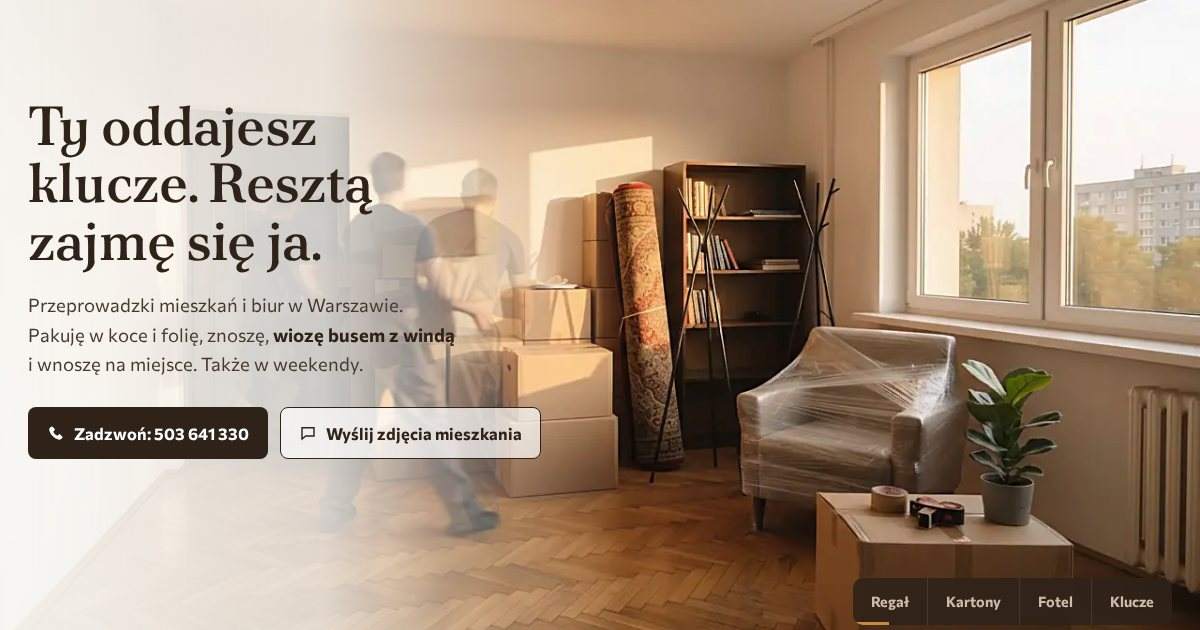
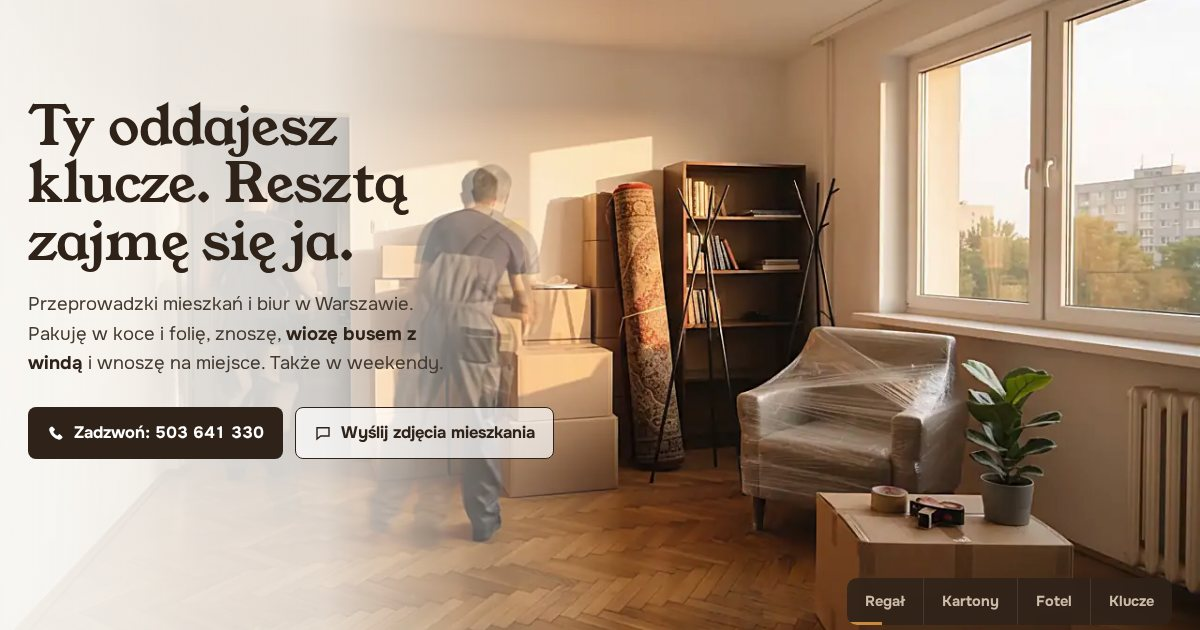
MJ Transport: W1 nowy krój (Young Serif + Onest); łagodne pojawianie treści przy przewijaniu we wszystkich wariantach
Claude-Session: https://claude.ai/code/session_01USdgDgttiw38zyboxaxrj8

diff --git a/p/mj-transport-w3-trasa/index.html b/p/mj-transport-w3-trasa/index.html
@@ -158,10 +158,10 @@ footer .wrap{display:flex;flex-wrap:wrap;gap:16px 40px;justify-content:space-bet
 footer b{color:var(--ink);font-weight:700}
 .mbar{display:none}
 
-.js .reveal{opacity:0;transform:translateY(26px);transition:opacity .85s cubic-bezier(.22,.61,.36,1),transform .85s cubic-bezier(.22,.61,.36,1)}
-.js .reveal.in{opacity:1;transform:none}
-.js .stagger>*{opacity:0;transform:translateY(24px);transition:opacity .8s cubic-bezier(.22,.61,.36,1),transform .8s cubic-bezier(.22,.61,.36,1);transition-delay:calc(var(--i,0)*85ms)}
-.js .stagger.in>*{opacity:1;transform:none}
+.js .reveal{opacity:0;transform:translateY(22px);filter:blur(4px);transition:opacity 1.3s cubic-bezier(.16,.7,.24,1),transform 1.4s cubic-bezier(.16,.7,.24,1),filter 1.1s ease}
+.js .reveal.in{opacity:1;transform:none;filter:none}
+.js .stagger>*{opacity:0;transform:translateY(20px);filter:blur(3px);transition:opacity 1.2s cubic-bezier(.16,.7,.24,1),transform 1.3s cubic-bezier(.16,.7,.24,1),filter 1s ease;transition-delay:calc(var(--i,0)*130ms)}
+.js .stagger.in>*{opacity:1;transform:none;filter:none}
 
 @media(max-width:1060px){
   .nav{display:none}.mnav{display:block}
@@ -201,8 +201,8 @@ footer b{color:var(--ink);font-weight:700}
   .mbar a:first-child{background:var(--red);color:#fff}
   .mbar a:last-child{border:2px solid var(--ink);color:var(--ink)}
   .mbar svg{width:18px;height:18px}
-  .js .reveal{transform:translateY(16px);transition-duration:.7s}
-  .js .stagger>*{transform:translateY(16px);transition-duration:.7s;transition-delay:calc(var(--i,0)*55ms)}
+  .js .reveal{transform:translateY(14px);filter:none}
+  .js .stagger>*{transform:translateY(14px);filter:none;transition-delay:calc(var(--i,0)*90ms)}
 }
 @media(max-width:420px){.hdr .call{display:none}.mk{font-size:12.5px}}
 @media(max-width:380px){.h1{font-size:27px}}
@@ -210,7 +210,7 @@ footer b{color:var(--ink);font-weight:700}
   html{scroll-behavior:auto}
   .js .hero{height:auto}
   .js .pin{position:relative;top:0;height:auto;min-height:calc(100vh - var(--hdr-h))}
-  .js .reveal,.js .stagger>*{opacity:1!important;transform:none!important;transition:none!important}
+  .js .reveal,.js .stagger>*{opacity:1!important;transform:none!important;filter:none!important;transition:none!important}
 }
 </style>
 </head>
@@ -376,11 +376,11 @@ const m=()=>root.style.setProperty('--hdr-h',top.offsetHeight+'px'); m(); addEve
 document.querySelectorAll('.mnav nav a').forEach(a=>a.addEventListener('click',()=>a.closest('details').removeAttribute('open')));
 document.querySelectorAll('.stagger').forEach(s=>[...s.children].forEach((c,i)=>c.style.setProperty('--i',i)));
 const els=[...document.querySelectorAll('.reveal,.stagger')]; let fired=false;
-const io=new IntersectionObserver(es=>es.forEach(e=>{if(e.isIntersecting){fired=true;e.target.classList.add('in');io.unobserve(e.target)}}),{rootMargin:'0px 0px -8% 0px'});
+const io=new IntersectionObserver(es=>es.forEach(e=>{if(e.isIntersecting){fired=true;e.target.classList.add('in');io.unobserve(e.target)}}),{rootMargin:'0px 0px -12% 0px',threshold:.08});
 els.forEach(e=>io.observe(e));
 const sweep=()=>els.forEach(e=>{if(!e.classList.contains('in')&&e.getBoundingClientRect().top<innerHeight*.95){e.classList.add('in');io.unobserve(e)}});
 let st; addEventListener('scroll',()=>{clearTimeout(st);st=setTimeout(sweep,140)},{passive:true});
-setTimeout(()=>{if(!fired)els.forEach(e=>e.classList.add('in'))},4000);
+
 
 /* hero: trasa */
 const route=document.getElementById('route'), van=document.getElementById('van'), L=route.getTotalLength();

diff --git a/p/mj-transport-w2-winda/index.html b/p/mj-transport-w2-winda/index.html
@@ -168,10 +168,10 @@ footer .brand span{color:var(--txt)}
 .mbar{display:none}
 
 /* odsłanianie */
-.js .reveal{opacity:0;transform:translateY(26px);transition:opacity .85s cubic-bezier(.22,.61,.36,1),transform .85s cubic-bezier(.22,.61,.36,1)}
-.js .reveal.in{opacity:1;transform:none}
-.js .stagger>*{opacity:0;transform:translateY(24px);transition:opacity .8s cubic-bezier(.22,.61,.36,1),transform .8s cubic-bezier(.22,.61,.36,1);transition-delay:calc(var(--i,0)*85ms)}
-.js .stagger.in>*{opacity:1;transform:none}
+.js .reveal{opacity:0;transform:translateY(22px);filter:blur(4px);transition:opacity 1.3s cubic-bezier(.16,.7,.24,1),transform 1.4s cubic-bezier(.16,.7,.24,1),filter 1.1s ease}
+.js .reveal.in{opacity:1;transform:none;filter:none}
+.js .stagger>*{opacity:0;transform:translateY(20px);filter:blur(3px);transition:opacity 1.2s cubic-bezier(.16,.7,.24,1),transform 1.3s cubic-bezier(.16,.7,.24,1),filter 1s ease;transition-delay:calc(var(--i,0)*130ms)}
+.js .stagger.in>*{opacity:1;transform:none;filter:none}
 
 @media(max-width:1060px){
   .nav{display:none}.mnav{display:block}
@@ -219,8 +219,8 @@ footer .brand span{color:var(--txt)}
   .mbar a:first-child{background:var(--strap);color:var(--ink)}
   .mbar a:last-child{border:1.5px solid #6B737B;color:var(--txt)}
   .mbar svg{width:18px;height:18px}
-  .js .reveal{transform:translateY(16px);transition-duration:.7s}
-  .js .stagger>*{transform:translateY(16px);transition-duration:.7s;transition-delay:calc(var(--i,0)*55ms)}
+  .js .reveal{transform:translateY(14px);filter:none}
+  .js .stagger>*{transform:translateY(14px);filter:none;transition-delay:calc(var(--i,0)*90ms)}
 }
 @media(max-width:420px){
   .hdr .call{display:none}
@@ -230,7 +230,7 @@ footer .brand span{color:var(--txt)}
   html{scroll-behavior:auto}
   .js .hero{height:auto}
   .js .pin{position:relative;top:0;height:auto;min-height:calc(100vh - var(--hdr-h));padding:30px 0}
-  .js .reveal,.js .stagger>*{opacity:1!important;transform:none!important;transition:none!important}
+  .js .reveal,.js .stagger>*{opacity:1!important;transform:none!important;filter:none!important;transition:none!important}
   .scrollhint i{animation:none}
 }
 </style>
@@ -438,11 +438,11 @@ document.querySelectorAll('.mnav nav a').forEach(a=>a.addEventListener('click',(
 /* odsłanianie */
 document.querySelectorAll('.stagger').forEach(s=>[...s.children].forEach((c,i)=>c.style.setProperty('--i',i)));
 const els=[...document.querySelectorAll('.reveal,.stagger')]; let fired=false;
-const io=new IntersectionObserver(es=>es.forEach(e=>{if(e.isIntersecting){fired=true;e.target.classList.add('in');io.unobserve(e.target)}}),{rootMargin:'0px 0px -8% 0px'});
+const io=new IntersectionObserver(es=>es.forEach(e=>{if(e.isIntersecting){fired=true;e.target.classList.add('in');io.unobserve(e.target)}}),{rootMargin:'0px 0px -12% 0px',threshold:.08});
 els.forEach(e=>io.observe(e));
 const sweep=()=>els.forEach(e=>{if(!e.classList.contains('in')&&e.getBoundingClientRect().top<innerHeight*.95){e.classList.add('in');io.unobserve(e)}});
 let st; addEventListener('scroll',()=>{clearTimeout(st);st=setTimeout(sweep,140)},{passive:true});
-setTimeout(()=>{if(!fired)els.forEach(e=>e.classList.add('in'))},4000);
+
 
 /* hero: winda */
 const hero=document.getElementById('hero'), pin=hero.querySelector('.pin');

diff --git a/p/mj-transport-w1-przeprowadzka/index.html b/p/mj-transport-w1-przeprowadzka/index.html
@@ -13,19 +13,19 @@
 <script>document.documentElement.classList.add('js')</script>
 <link rel="preconnect" href="https://fonts.googleapis.com">
 <link rel="preconnect" href="https://fonts.gstatic.com" crossorigin>
-<link href="https://fonts.googleapis.com/css2?family=Commissioner:wght@400;600;700&family=Poltawski+Nowy:ital,wght@0,500;0,600;0,700;1,500&display=swap" rel="stylesheet">
+<link href="https://fonts.googleapis.com/css2?family=Young+Serif&family=Onest:wght@400;600;700&display=swap" rel="stylesheet">
 <style>
 :root{
   --wal:#2F2219; --wal2:#3E2F24; --wal3:#54402F;
   --honey:#C98A3E; --honey-d:#8F5A1E; --honey-l:#F2DDB9;
   --wall:#FBFAF7; --wall2:#F1ECE4; --ink:#1F1B17; --mute:#5E554C;
   --onw:#F6EFE6; --onwm:#CDBCA9;
-  --f-d:'Poltawski Nowy',Georgia,serif; --f-t:'Commissioner',system-ui,sans-serif;
+  --f-d:'Young Serif',Georgia,serif; --f-t:'Onest',system-ui,sans-serif;
   --hdr-h:100px;
 }
 *{box-sizing:border-box;margin:0;padding:0}
 html{scroll-behavior:smooth;-webkit-text-size-adjust:100%}
-body{font-family:var(--f-t);background:var(--wall);color:var(--ink);font-size:17px;line-height:1.6;accent-color:var(--honey-d);caret-color:var(--honey-d)}
+body{font-synthesis:none;font-family:var(--f-t);background:var(--wall);color:var(--ink);font-size:17px;line-height:1.6;accent-color:var(--honey-d);caret-color:var(--honey-d)}
 ::selection{background:var(--honey-l);color:var(--ink)}
 :focus-visible{outline:3px solid var(--honey-d);outline-offset:3px}
 img{max-width:100%;height:auto;display:block}
@@ -120,7 +120,7 @@ section[id]{scroll-margin-top:calc(var(--hdr-h) + 8px)}
 /* Marcin */
 .me{display:grid;grid-template-columns:4fr 7fr;gap:64px;align-items:center}
 .me img{border-radius:12px;aspect-ratio:4/5;object-fit:cover;object-position:50% 20%;width:100%;max-width:400px}
-.me blockquote{font-family:var(--f-d);font-style:italic;font-weight:500;font-size:clamp(24px,2.3vw,32px);line-height:1.35;color:#fff;max-width:28ch}
+.me blockquote{font-family:var(--f-d);font-style:normal;font-weight:500;font-size:clamp(24px,2.3vw,32px);line-height:1.35;color:#fff;max-width:28ch}
 .me cite{display:block;font-style:normal;color:var(--onwm);margin-top:14px}
 .me .facts{display:grid;grid-template-columns:1fr 1fr;gap:22px 36px;margin-top:36px}
 .me .facts p{color:var(--onwm);font-size:16.5px;border-top:1px solid rgba(255,255,255,.14);padding-top:14px}
@@ -364,7 +364,7 @@ const io=new IntersectionObserver(es=>es.forEach(e=>{if(e.isIntersecting){fired=
 els.forEach(e=>io.observe(e));
 const sweep=()=>els.forEach(e=>{if(!e.classList.contains('in')&&e.getBoundingClientRect().top<innerHeight*.95){e.classList.add('in');io.unobserve(e)}});
 let st; addEventListener('scroll',()=>{clearTimeout(st);st=setTimeout(sweep,140)},{passive:true});
-setTimeout(()=>{if(!fired)els.forEach(e=>e.classList.add('in'))},4000);
+
 
 /* hero: film przeprowadzki odtwarzany sam, w pętli (klatki na canvasie) */
 const N=100, small=Math.min(innerWidth,screen.width)*Math.min(devicePixelRatio||1,2)<=1000;
